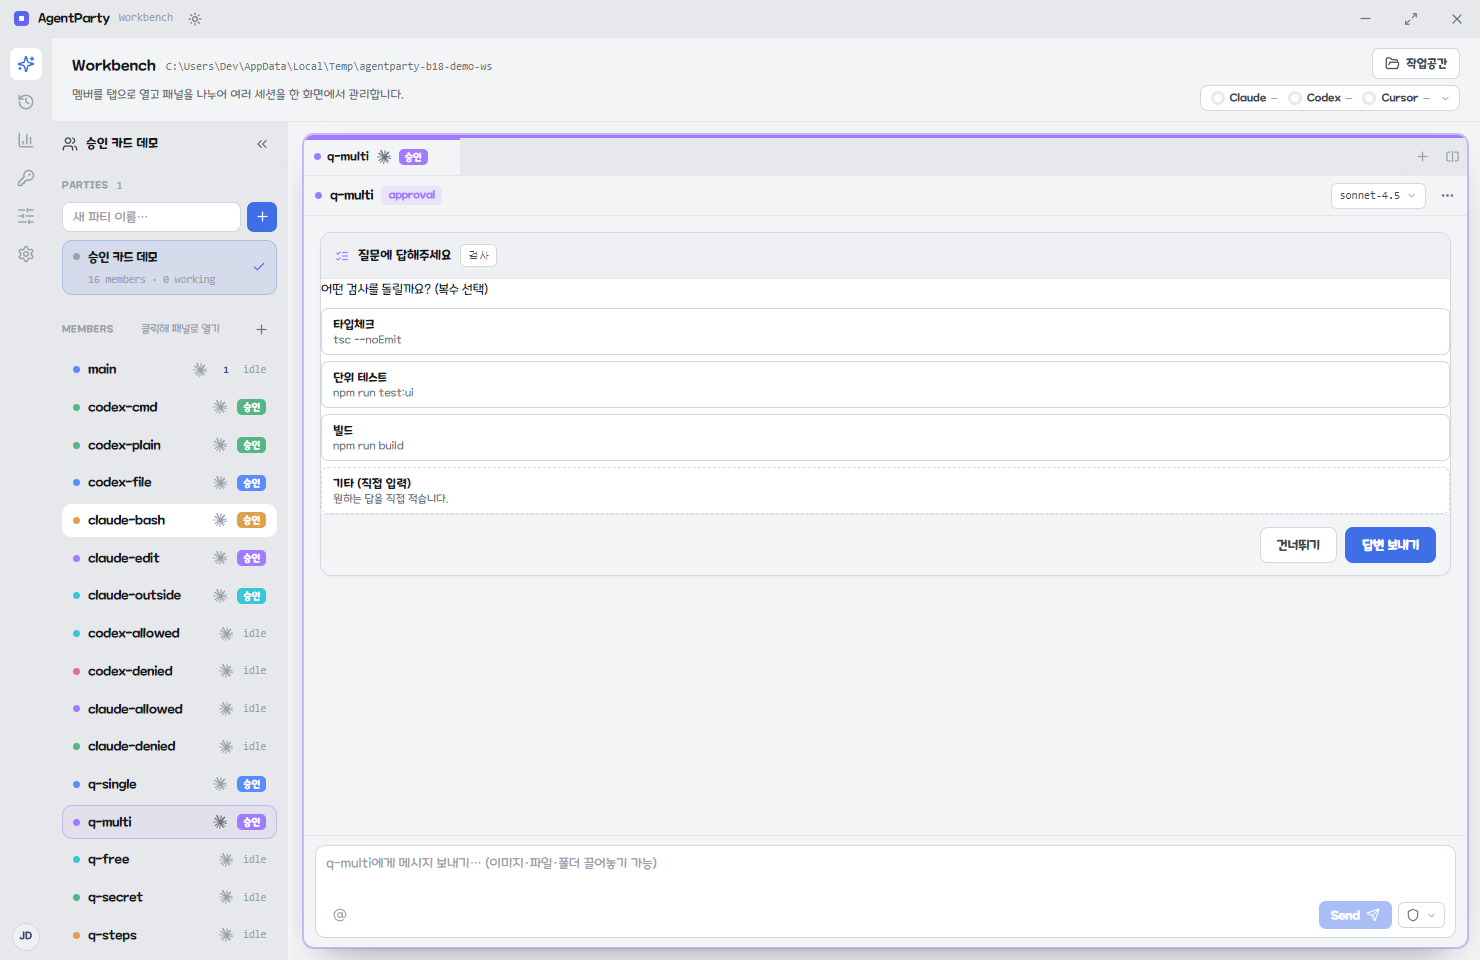
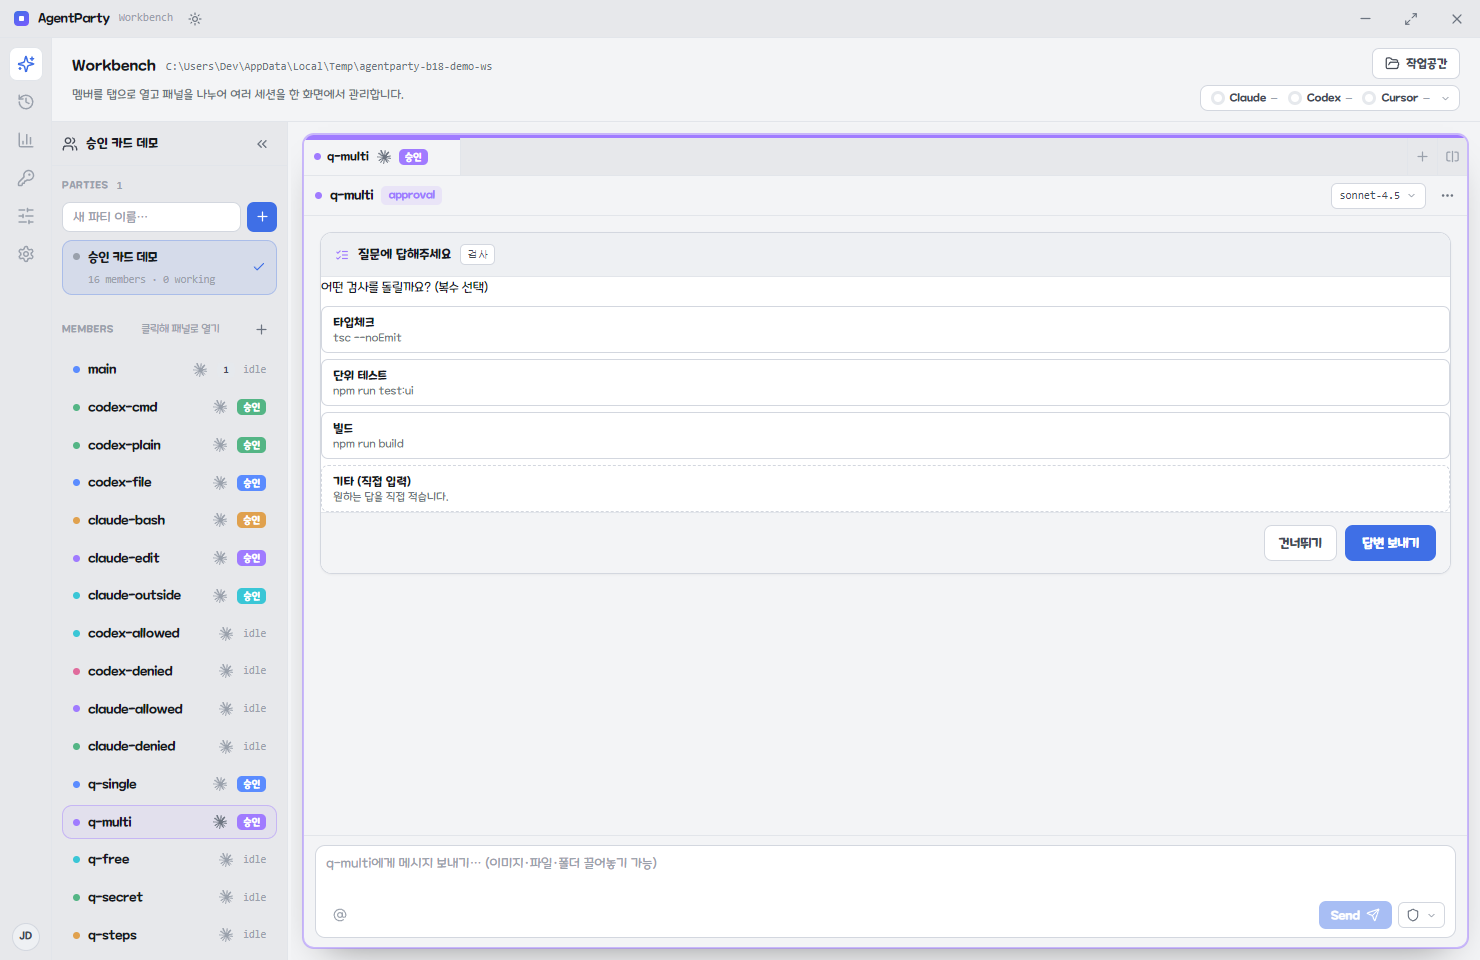
Fix the collapsed gap under the file row, and measure gaps for real
The `add` chip sat flush against the diff below it. Cause: I wrapped the file
row and its diff in a div, so the body's 12px row gap applied to the WRAPPER and
the two rows inside it had nothing between them. The design has both as direct
children of the body; they are a fragment now.

Every declared value still matched while this was broken, which is the point:
the metrics check only saw spacing someone had remembered to declare. It now
also walks what is actually on screen — for each container, the rendered gap
between every pair of adjacent visible children plus the distance from the
container edge to its first and last child. A wrapper that swallows a gap shows
up as a 0 where 12 was expected.

Also drops the rule from the "항상 허용" button when it repeats what the card
already shows. Codex's rule IS the command displayed two rows above, launcher
path and all, so the second line said nothing and stretched the button past the
rest of the row. Claude's is a pattern (`echo one *`) that appears nowhere else,
so it keeps its line. Compared loosely, since the two write the same command
differently (quoted vs joined argv).

⚠ Twice now a scripted edit to this file no-opped silently and a whole section
"passed" by never running — caught both times only by noticing the heading was
missing from the output. Wired counts are asserted by grep before running now.

Changed region(s): [[0.2176, 0.25, 0.9635, 0.5312], [0.8392, 0.5312, 0.9635, 0.5938]]

diff --git a/src/renderer/workbench/Transcript.tsx b/src/renderer/workbench/Transcript.tsx
@@ -1,4 +1,4 @@
-import { useEffect, useLayoutEffect, useRef, useState, type ReactNode } from "react";
+import { Fragment, useEffect, useLayoutEffect, useRef, useState, type ReactNode } from "react";
 import { AlertTriangle, AlignLeft, ArrowDownLeft, ArrowRight, ArrowUpRight, Brain, Check, ChevronRight, Circle, CircleDot, Copy, CornerUpLeft, FastForward, FileDiff, ImageOff, Info, ListChecks, LoaderCircle, Maximize2, Minimize2, Search, ShieldCheck, Shuffle, Terminal, UserMinus, UserPlus, X } from "lucide-react";
 import type { MemberView, PanelDensity, TranscriptBlock } from "./types";
 import type { WorkbenchActions } from "./actions";
@@ -6,7 +6,7 @@ import { Markdown } from "./Markdown";
 import { CopyButton } from "./copy";
 import { CODEX_DECISION_HINTS, CODEX_DECISION_LABELS, codexApprovalOptions } from "../../shared/codexApproval";
 import type { CodexApprovalKind, CodexApprovalMeta, CodexDecision } from "../../shared/codexApproval";
-import { claudeAlwaysRule, extractToolFilePath } from "../../shared/approvalRequest";
+import { claudeAlwaysRule, extractToolFilePath, ruleAddsInformation } from "../../shared/approvalRequest";
 import { harnessShort } from "./harnessLabel";
 import { imageDataUrl, type ImageAttachment } from "../../shared/attachments";
 import { memberColorVars } from "../theme/memberColors";
@@ -764,12 +764,12 @@ function ClaudeApprovalBlock({ block, view, density, actions }: { block: Extract
         {rule && (
           <button
             type="button"
-            className="wb-btn wb-btn-soft wb-btn-widest wb-btn-rule"
+            className={"wb-btn wb-btn-soft wb-btn-widest" + (ruleAddsInformation(rule.hint, command) ? " wb-btn-rule" : "")}
             title={`'${rule.hint}' 규칙을 저장합니다. 다른 이유(경로 등)로는 다시 물을 수 있습니다.`}
             onClick={() => decide("always")}
           >
             <span>항상 허용</span>
-            <span className="wb-btn-rule-hint">{rule.hint}</span>
+            {ruleAddsInformation(rule.hint, command) && <span className="wb-btn-rule-hint">{rule.hint}</span>}
           </button>
         )}
       </div>
@@ -894,14 +894,14 @@ function CodexApprovalBlock({ block, codex, view, density, actions }: { block: E
       {/* A file-change approval carries no diff of its own; these are joined from
           the item it names, so the user can see the edit before allowing it. */}
       {!codex.diff && codex.edits?.map((edit) => (
-        <div key={edit.path} className="wb-approval-filechange">
+        <Fragment key={edit.path}>
           <div className="wb-approval-file">
             <span className="wb-approval-file-kind">{edit.kind}</span>
             <span className="wb-approval-file-path">{shortPath(edit.path)}</span>
             {(edit.added || edit.removed) ? <span className="wb-approval-file-stat">+{edit.added} −{edit.removed}</span> : null}
           </div>
           {edit.diff && <DiffLines diff={edit.diff} />}
-        </div>
+        </Fragment>
       ))}
       </div>
       <div className="wb-approval-actions wb-codex-approval-actions">
@@ -918,7 +918,7 @@ function CodexApprovalBlock({ block, codex, view, density, actions }: { block: E
             }
             onClick={() => decide(decision)}
           >
-            {decision === "always" && codex.alwaysHint ? (
+            {decision === "always" && ruleAddsInformation(codex.alwaysHint, codex.commandDisplay || codex.command) ? (
               <>
                 <span>항상 허용</span>
                 <span className="wb-btn-rule-hint">{codex.alwaysHint}</span>

diff --git a/src/shared/approvalRequest.ts b/src/shared/approvalRequest.ts
@@ -158,6 +158,32 @@ export function claudeAlwaysRule(suggestions: unknown): { hint: string; scope: s
   return undefined;
 }
 
+/**
+ * Whether the stored rule is worth spelling out on the button.
+ *
+ * The point of showing it is that the user can see WHAT they are agreeing to,
+ * and the two harnesses differ sharply there. Claude offers a pattern —
+ * `echo one *` — which appears nowhere else on the card, so it earns its line.
+ * Codex offers the whole command it just showed, launcher path and all, so
+ * repeating it says nothing the card has not already said twice and pushes the
+ * button wide enough to unbalance the row.
+ *
+ * Compared loosely: the two are written differently (one quoted, one joined
+ * argv) even when they mean the same command.
+ */
+export function ruleAddsInformation(hint: string | undefined, shownCommand: string | undefined): boolean {
+  if (!hint) {
+    return false;
+  }
+  if (!shownCommand) {
+    return true;
+  }
+  const flatten = (value: string) => value.replace(/["']/g, "").replace(/\\+/g, "\\").replace(/\s+/g, " ").trim().toLowerCase();
+  const rule = flatten(hint);
+  const shown = flatten(shownCommand);
+  return !(shown.includes(rule) || rule.includes(shown));
+}
+
 /** Adds a normalized `filePath` so the card can name the file for any tool. */
 export function withFilePath(value: unknown): unknown {
   const record = asRecord(value);
